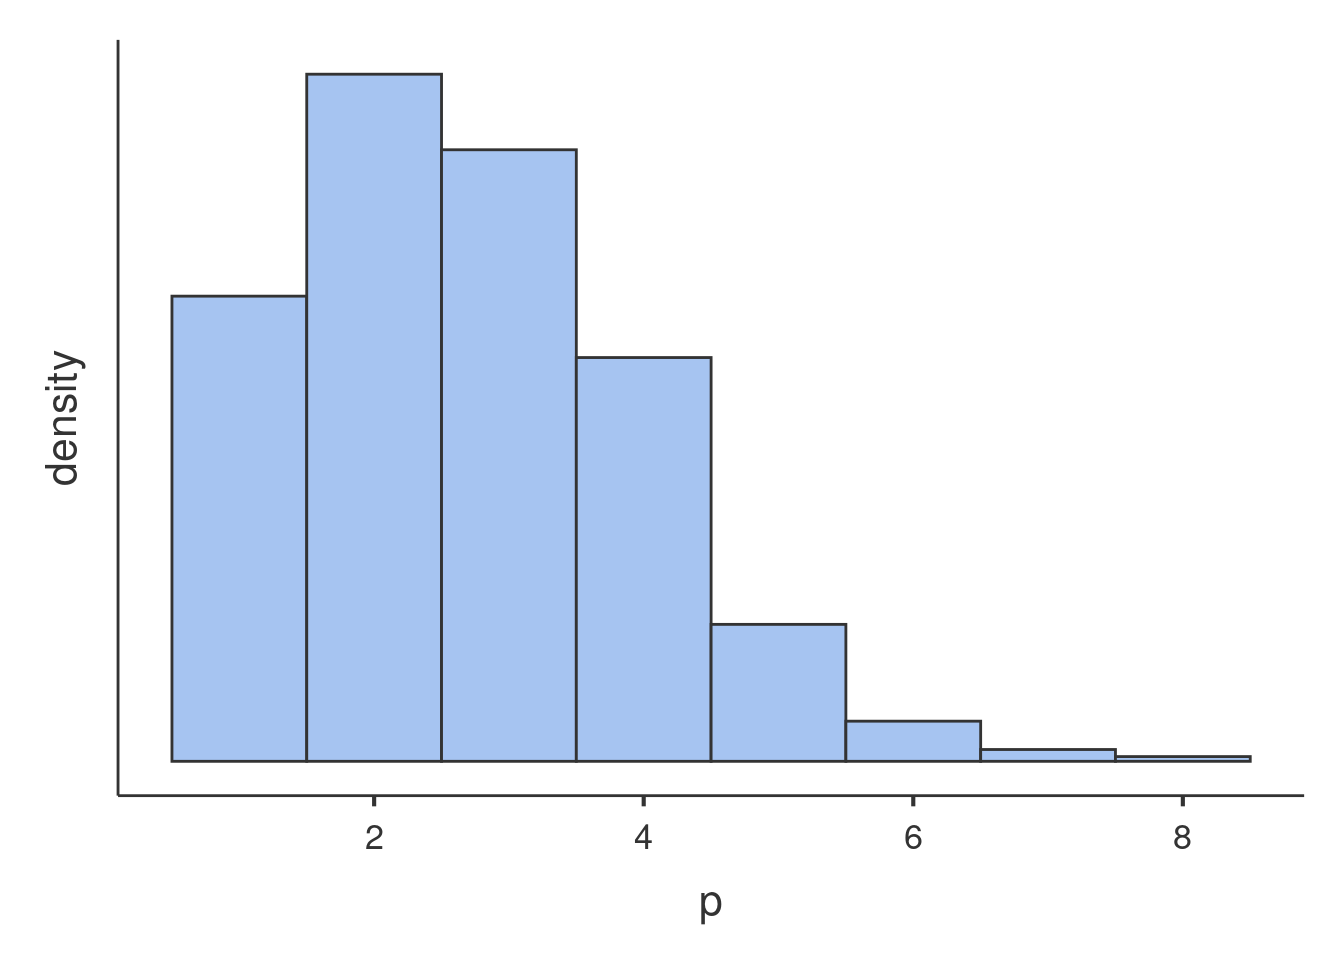
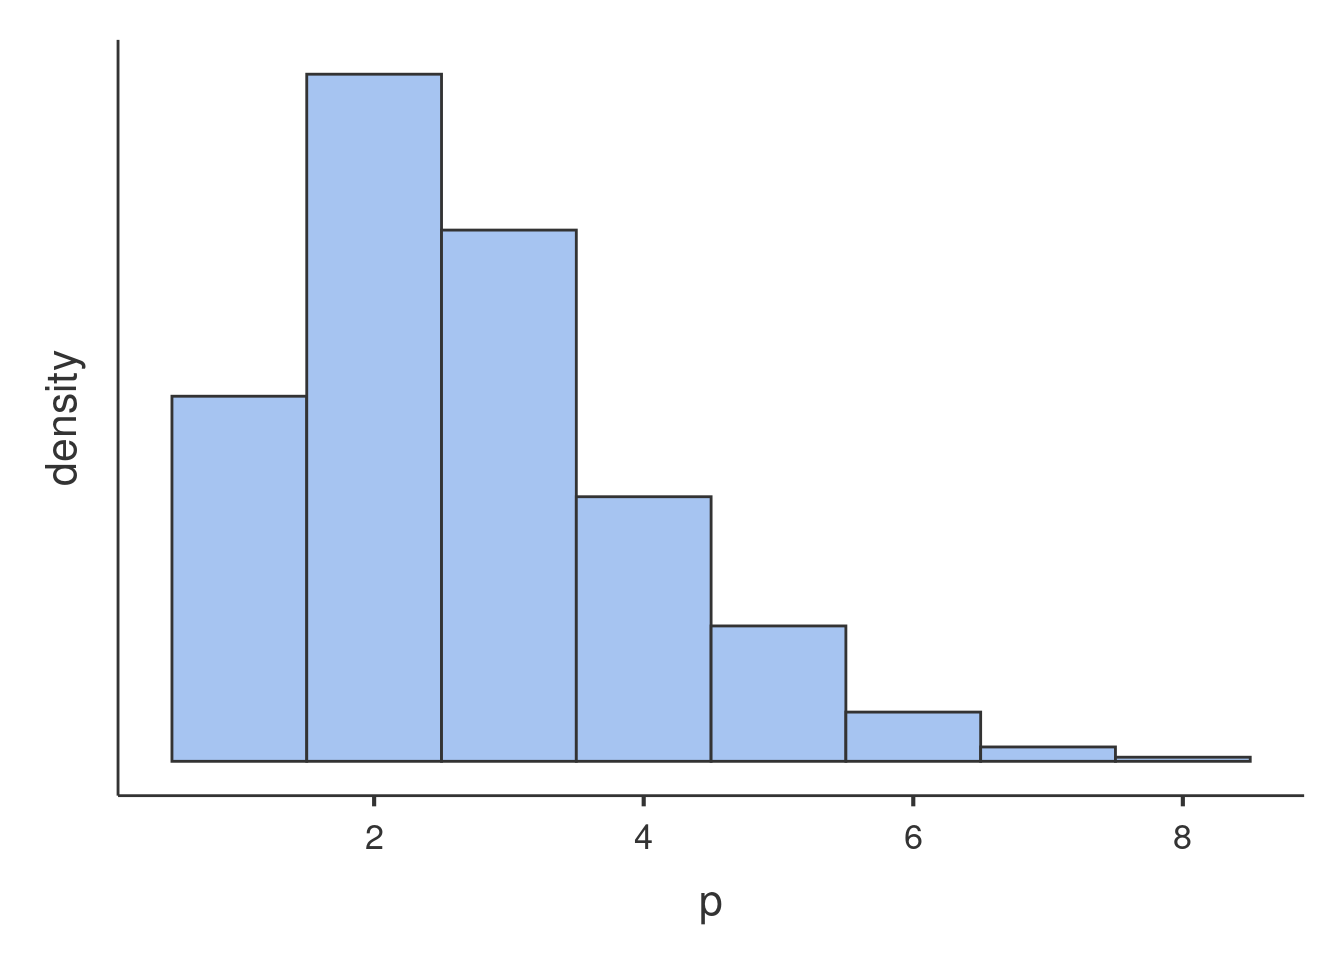
updates

diff --git a/docs/index.html b/docs/index.html
@@ -296,19 +296,20 @@ Model in Jamovi</h1>
 
 <p><span class="version"> <span class="versiontitle"> GAMLj version ≥
 </span> 3.0.0 </span></p>
-<p>This documentation refers to <span class="modulename">GAMLj</span>
-version 3 and above. <span class="modulename">GAMLj</span> is not
-compatible with <code>.omv</code> files produced with previous versions
-of the module. In case you need to downgrade to older version, please
-install the latest version of <span class="modulename">GAMLj</span> 2
-from here, with
+<p>This documentation it is being updated toward <span
+class="modulename">GAMLj</span> version 3 and above. You still find much
+of the material suitable for <span class="modulename">GAMLj</span>
+version 2. In case you want to read documentation that applies only to
+version 2, please go to
 <a href='https://mcfanda.github.io/gamlj_legacy.github.io/' target='_blank'>Version
 2 docs</a>.</p>
+<div class="bignote">
 <p>If you are interested in more information about the statistical
 models that can be estimated by <span class="modulename">GAMLj</span>,
 and their results interpretation, you can read
 <a href='https://gamlj.github.io/book/booklet.html' target='_blank'>GAMLj
 models</a>, a (in progress) web book companion to the module.</p>
+</div>
 <p>General, Mixed and Generalized Models module for <span
 class="jamovi"><a href="http://www.jamovi.org" target="_blank">jamovi</a></span>.</p>
 <p><img src="commons/pics/ui.png" width="1287" /></p>

diff --git a/docs/glmmixed_example2.html b/docs/glmmixed_example2.html
@@ -424,8 +424,8 @@ Generalized Linear Model with Poisson distribition may work. However, we
 can check wheather our distribution is in line with the features of the
 Poisson dist by checking its mean and variance. The Poisson distribution
 has variance equal to the mean, in fact the simulated distribution in
-the histogram has <span class="math inline">\(\bar{x}=1.683\)</span> and
-<span class="math inline">\(s^2=1.666\)</span>. The <code>art</code>
+the histogram has <span class="math inline">\(\bar{x}=1.68\)</span> and
+<span class="math inline">\(s^2=1.717\)</span>. The <code>art</code>
 variable distribution has <span
 class="math inline">\(\bar{x}=1.693\)</span> and <span
 class="math inline">\(s^2=3.71\)</span>, with a ratio variance/mean of

diff --git a/docs/style.css b/docs/style.css
@@ -225,3 +225,13 @@ code {
   border: 2px solid #87cefa;
 }
 
+
+div.bignote {
+  display: inline-block;
+  padding: 15px;
+  color:  #212f3c ;
+  font-size: 1.1em;
+  border-radius: 5px; 
+  background-color:  #d6eaf8 ;
+  margin-bottom: 10px;
+}

diff --git a/docssource/style.css b/docssource/style.css
@@ -225,3 +225,13 @@ code {
   border: 2px solid #87cefa;
 }
 
+
+div.bignote {
+  display: inline-block;
+  padding: 15px;
+  color:  #212f3c ;
+  font-size: 1.1em;
+  border-radius: 5px; 
+  background-color:  #d6eaf8 ;
+  margin-bottom: 10px;
+}
